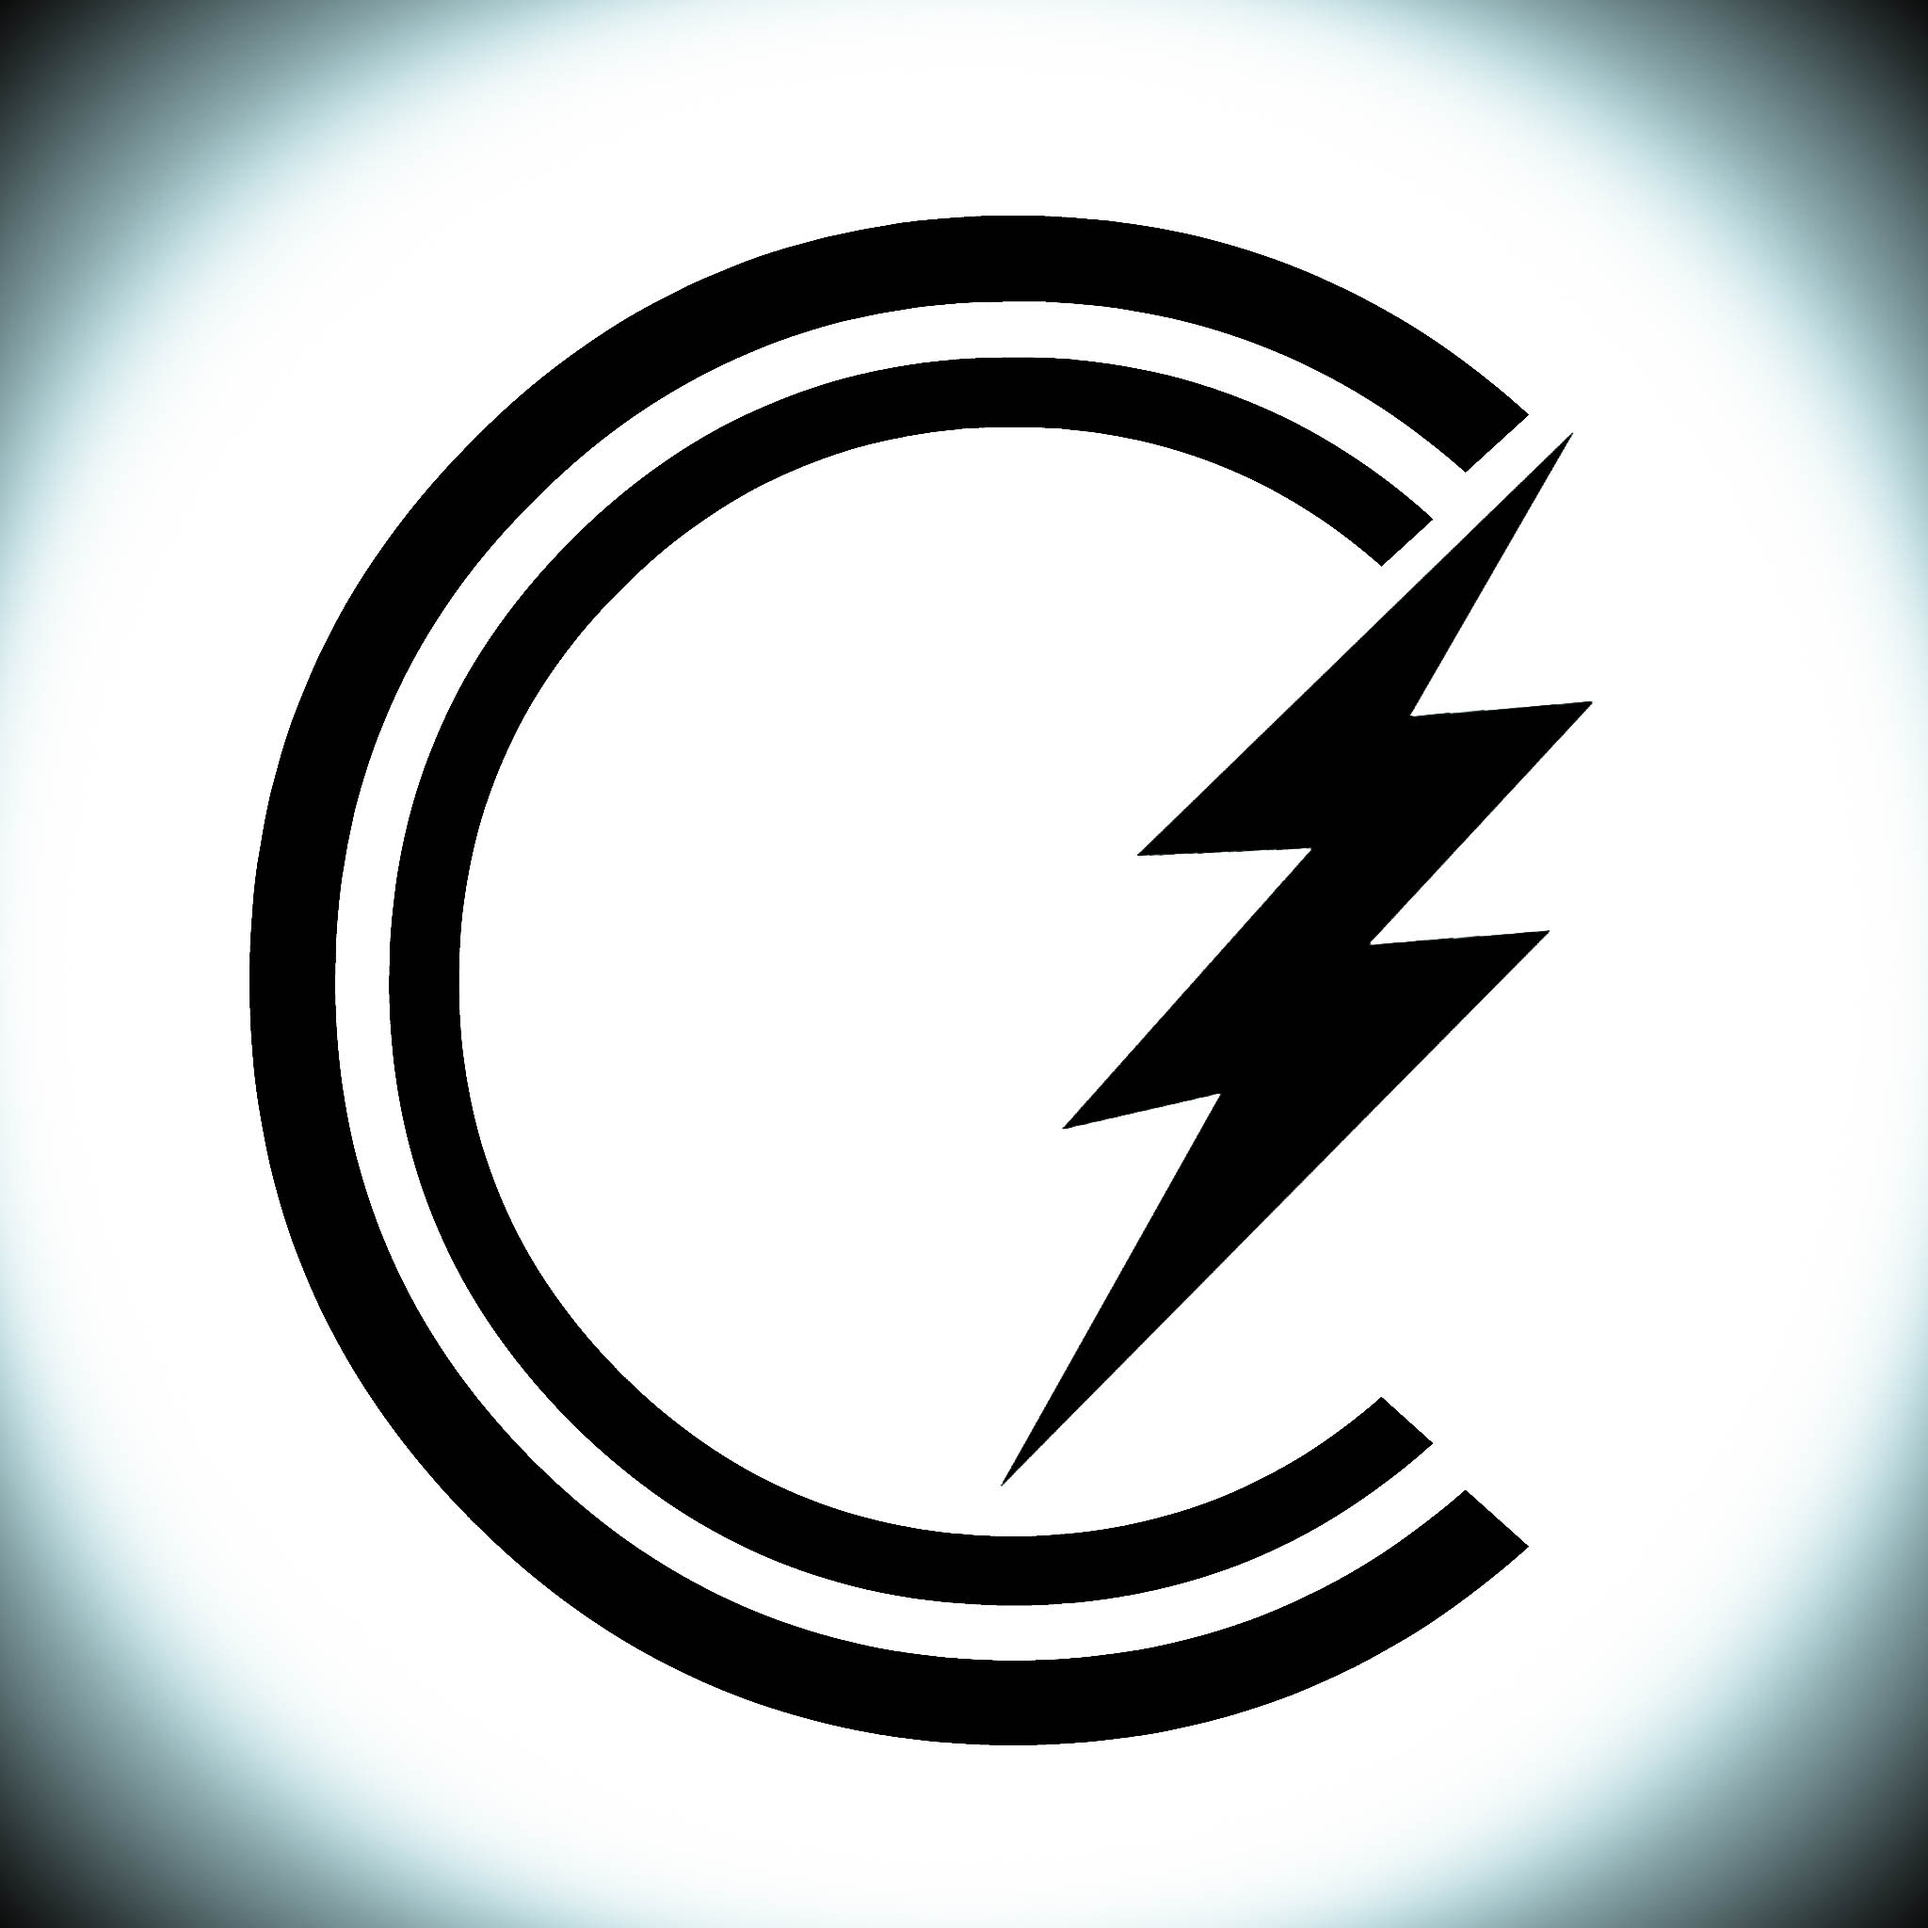
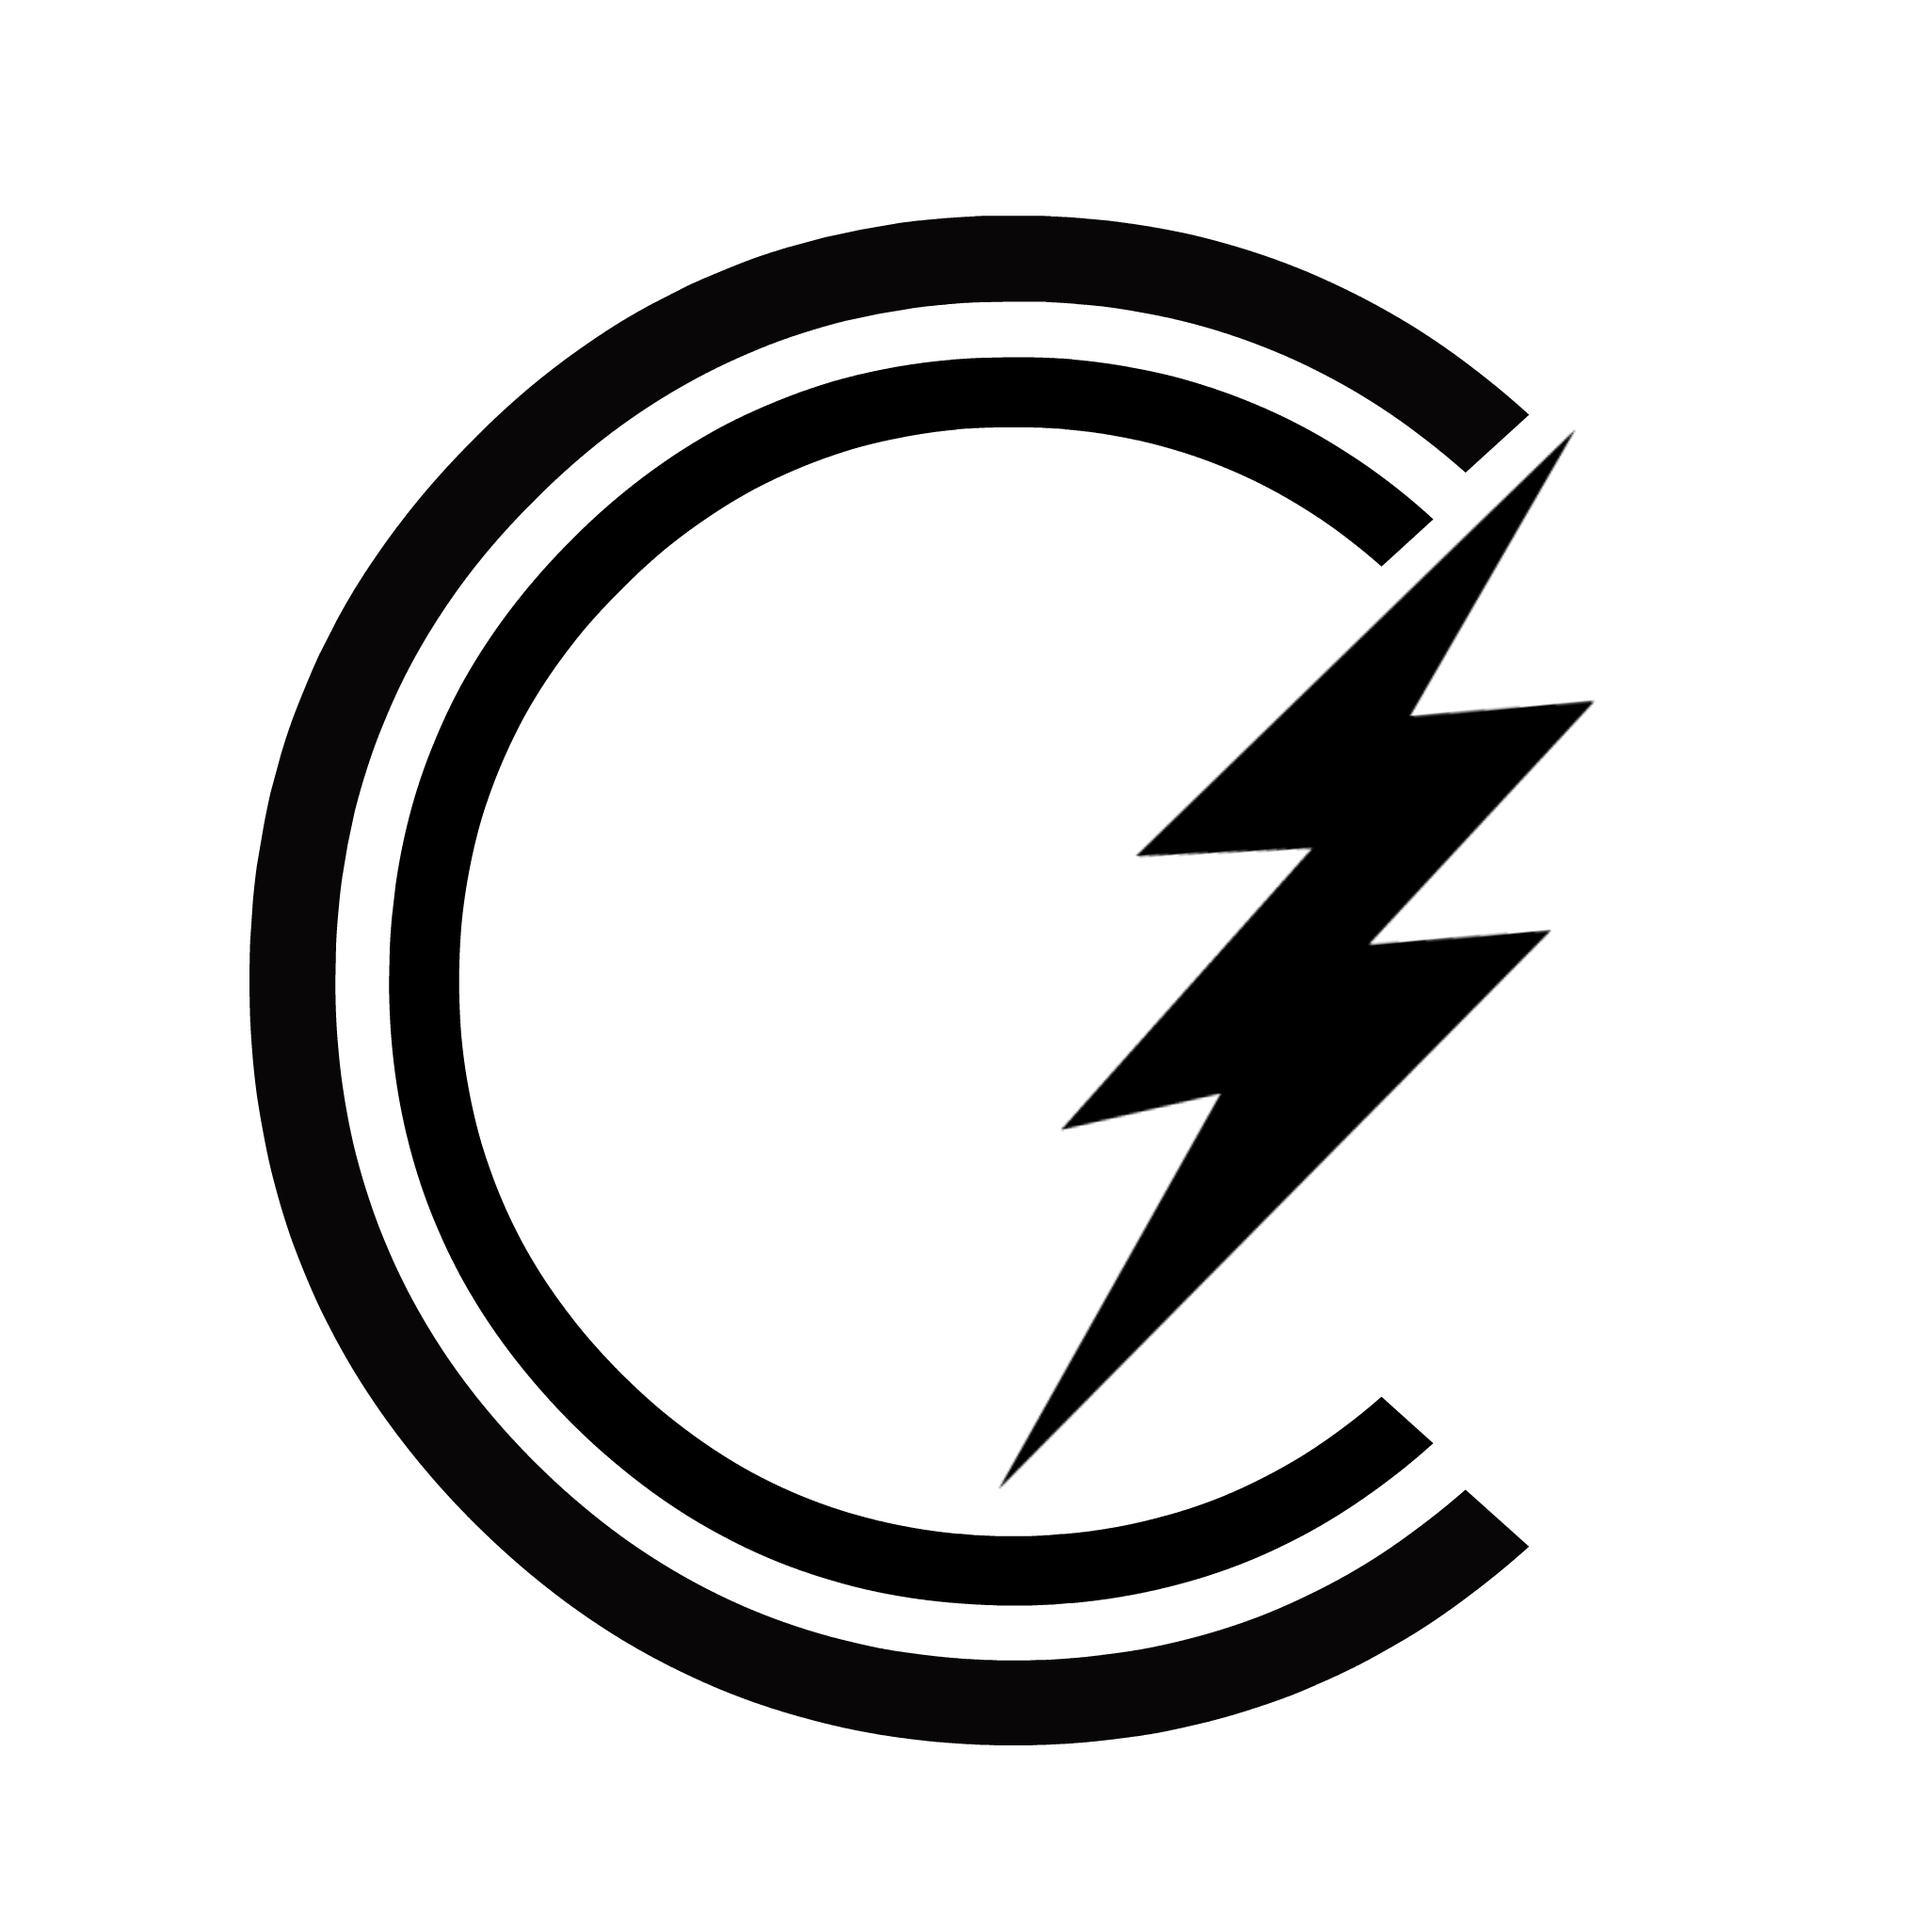
final

diff --git a/www/templates/login.html b/www/templates/login.html
@@ -24,6 +24,13 @@
     <label class="item">
       <button class="button button-block button-positive" ng-click="fbLogin()"> Connect with Facebook </button>
     </label>
+
+<div class="list card">
+  <div class="item item-image">
+    <img src="templates/circle.jpg">
+  </div>
+</div>
+
   </div>
 </form>
 </ion-content>
